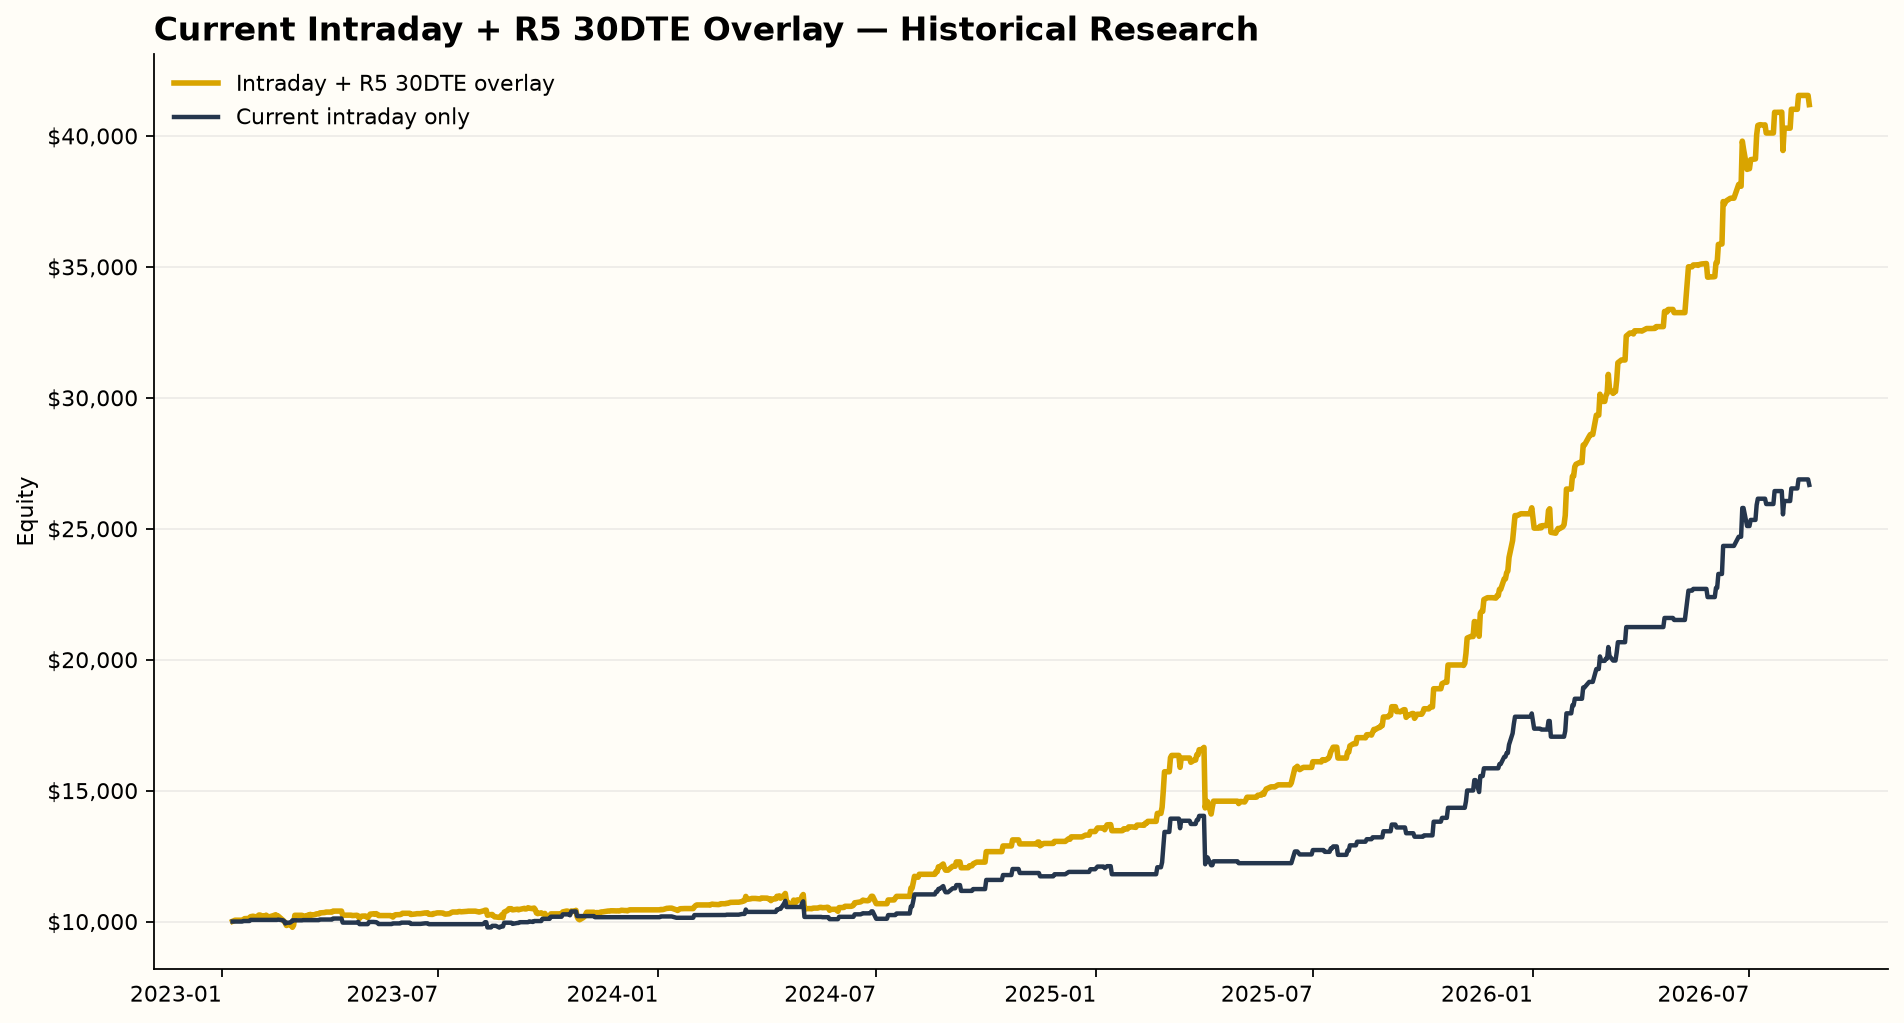
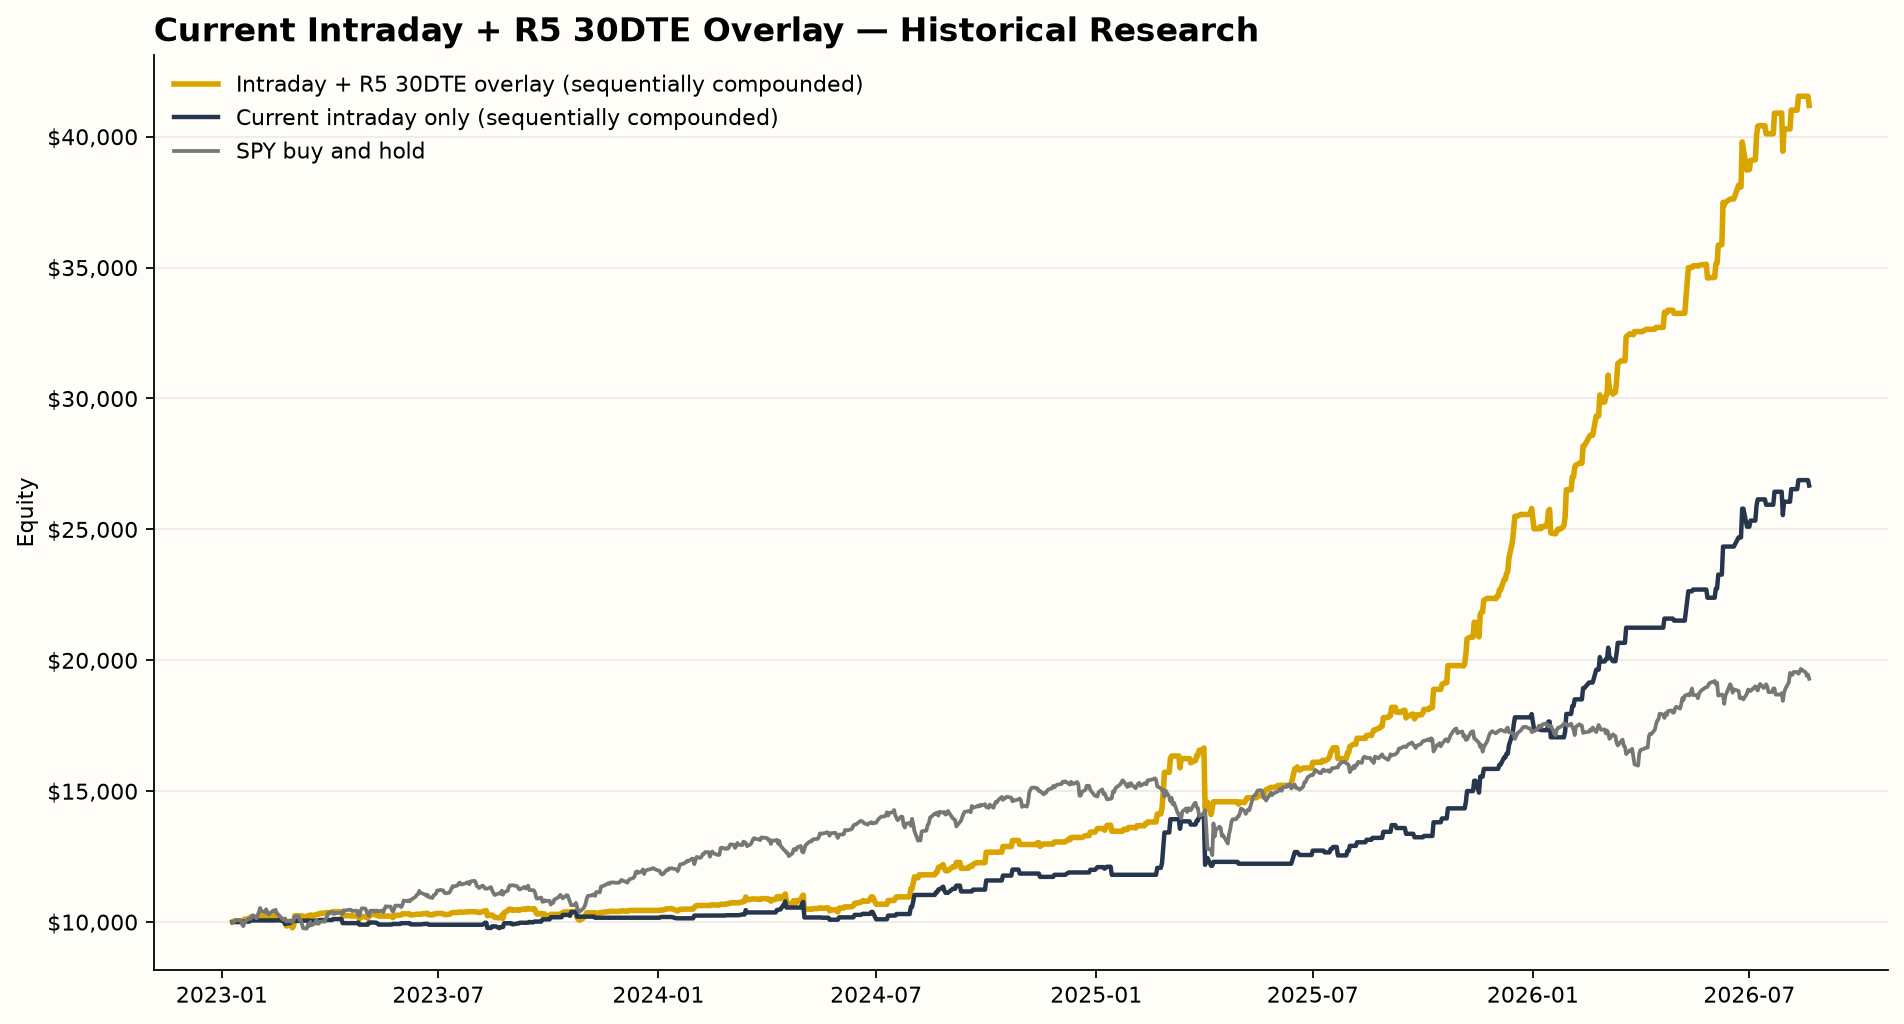
Add SPY to overlay research chart

diff --git a/algo-pnl.html b/algo-pnl.html
@@ -601,7 +601,7 @@ function setTextIfExists(id, value) {
     <div style="display:flex;gap:8px;flex-wrap:wrap;margin:18px 0 0;" role="group" aria-label="Exact replay sizing">
       <button type="button" id="fixedSizingButton" class="btn btn-dark btn-sm" onclick="showResearchSizing('fixed')">15% fixed · Non-compounding</button>
       <button type="button" id="compoundedSizingButton" class="btn btn-outline-dark btn-sm" onclick="showResearchSizing('compounded')">15% · Compounded</button>
-      <button type="button" id="overlayResearchButton" class="btn btn-outline-dark btn-sm" onclick="showResearchSizing('overlay')">Current Intraday + R5 30DTE Overlay — Historical Research</button>
+      <button type="button" id="overlayResearchButton" class="btn btn-outline-dark btn-sm" onclick="showResearchSizing('overlay')">Current Intraday + R5 30DTE Overlay — Historical Research (Compounded)</button>
     </div>
     <div class="chart-box research-chart-box"><img id="researchSizingChart" src="/images/foxchase_exact_current_fixed_vs_spy_setup_i_disabled.png?v=20260823-efj" alt="Exact current-production fixed-risk replay versus SPY"></div>
     <p class="small" id="researchSizingNote"><strong>Sizing note:</strong> Today's policy is applied hypothetically across history: 15% global base risk, current setup multipliers, and R4 at 0.50. The default does not compound.</p>
@@ -658,8 +658,8 @@ function setTextIfExists(id, value) {
       document.getElementById("researchWinRate").textContent = metrics.win_rate === null ? "Research view" : metrics.win_rate.toFixed(2) + "%";
       document.getElementById("researchAverageTrade").textContent = metrics.average === null ? "One swing spread" : "$" + metrics.average.toFixed(2);
       document.getElementById("researchProfitFactor").textContent = metrics.profit_factor === null ? "Not displayed" : metrics.profit_factor.toFixed(2);
-      document.getElementById("researchRiskFramework").textContent = overlay ? "Shared capital" : compounded ? "15% sequential" : "15% fixed";
-      document.getElementById("researchSizingNote").innerHTML = overlay ? "<strong>Overlay note:</strong> One shared $10,000 account; one swing spread maximum; full swing maximum loss remains reserved, and only strictly prior realized swing profits can increase later intraday sizing." : compounded ? "<strong>Sizing note:</strong> Sequential broker-equity sizing compounds today's policy after every trade." : "<strong>Sizing note:</strong> Fixed sizing holds the $10,000 starting-equity risk base constant and does not compound.";
+      document.getElementById("researchRiskFramework").textContent = overlay ? "Sequentially compounded" : compounded ? "15% sequential" : "15% fixed";
+      document.getElementById("researchSizingNote").innerHTML = overlay ? "<strong>Compounding note:</strong> This overlay view is sequentially compounded. It uses one shared $10,000 account and one swing spread maximum; full swing maximum loss remains reserved, and only strictly prior realized swing profits can increase later intraday sizing. SPY is shown as buy and hold from the same starting capital." : compounded ? "<strong>Sizing note:</strong> Sequential broker-equity sizing compounds today's policy after every trade." : "<strong>Sizing note:</strong> Fixed sizing holds the $10,000 starting-equity risk base constant and does not compound.";
       document.getElementById("fixedSizingButton").className = !overlay && !compounded ? "btn btn-dark btn-sm" : "btn btn-outline-dark btn-sm";
       document.getElementById("compoundedSizingButton").className = compounded ? "btn btn-dark btn-sm" : "btn btn-outline-dark btn-sm";
       document.getElementById("overlayResearchButton").className = overlay ? "btn btn-dark btn-sm" : "btn btn-outline-dark btn-sm";
